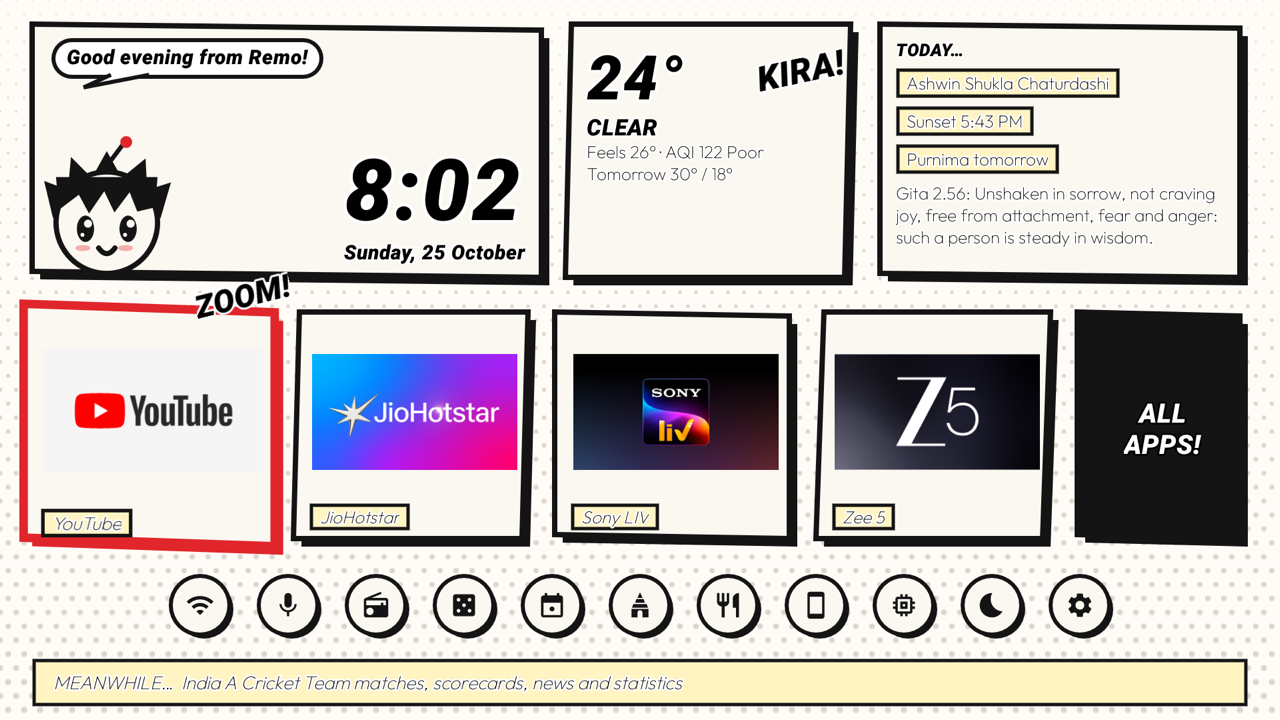
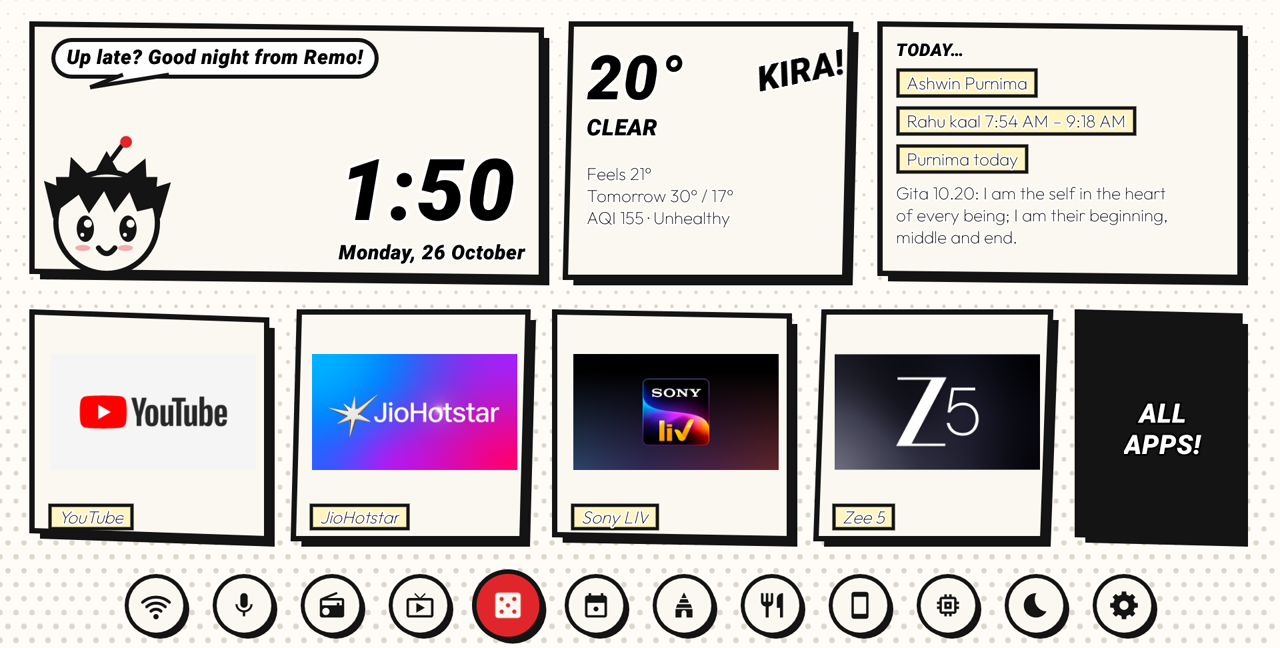
Update the README screenshots: the remote with its sparkle key, and MangaHome with the TV button

diff --git a/README.md b/README.md
@@ -10,7 +10,7 @@ screen.
   <img src="docs/screenshots/phone-sweep.png" alt="The Sweep screen, with Backup, Sweep, Home, Done and Share steps" width="200">
   <img src="docs/screenshots/phone-pick.png" alt="Picking the kind of TV" width="200">
 </p>
-<img src="docs/screenshots/tv-mangahome.png" alt="The MangaHome home screen on a TV: comic panels for the clock, weather, today and apps" width="620">
+<img src="docs/screenshots/tv-mangahome.png" alt="The MangaHome home screen on a TV: comic panels for the clock, the weather, today and the apps, with round buttons for Wi-Fi, voice, radio, live TV and more" width="620">
 
 ## What it does
 
